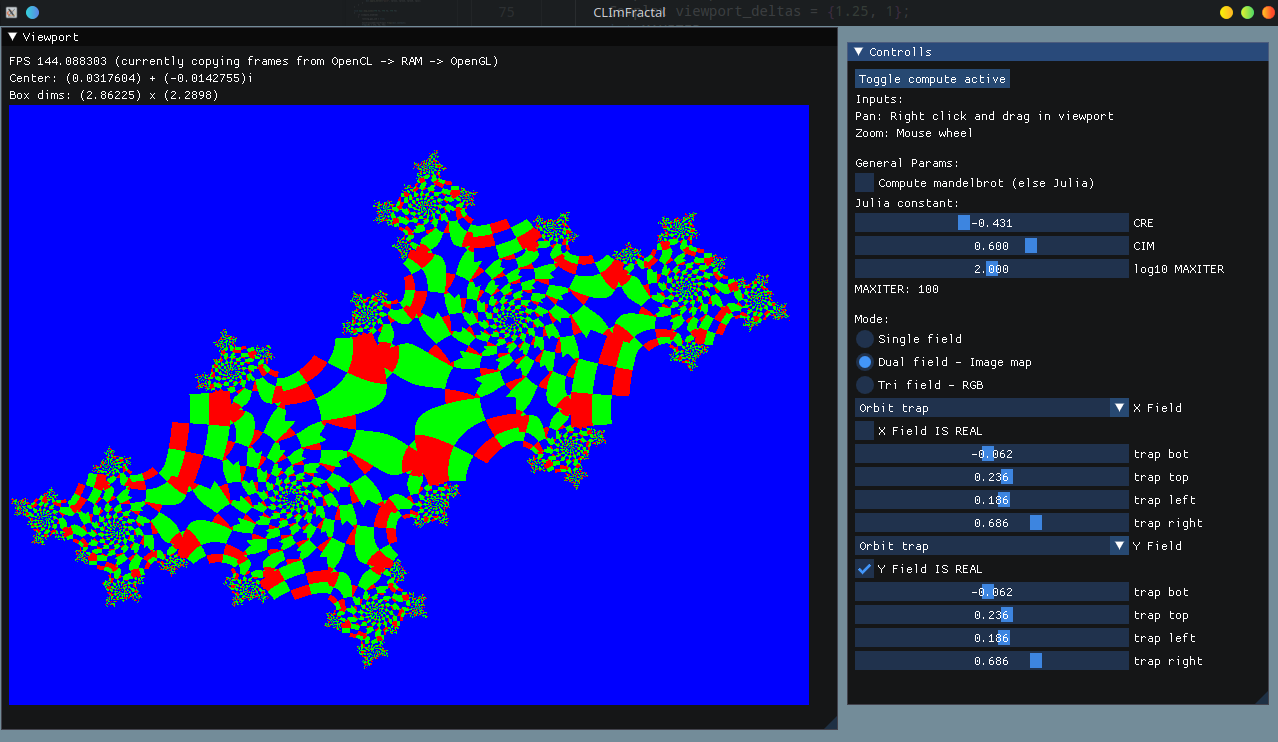
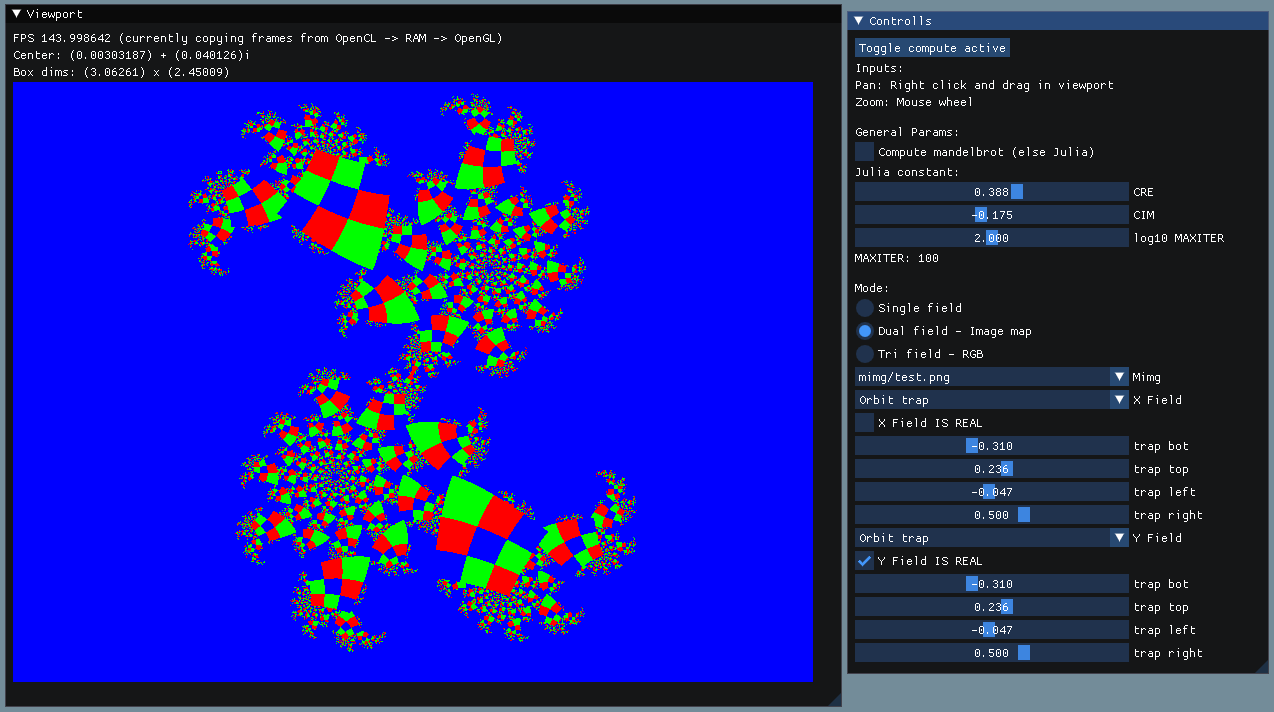
image selection

diff --git a/src/app.cpp b/src/app.cpp
@@ -1,5 +1,7 @@
-#include <filesystem>
 #include <cmath>
+#include <regex>
+#include <filesystem>
+namespace fs = std::filesystem;
 
 #include "app.h"
 #include "imgui.h"
@@ -21,7 +23,7 @@ App::App()
                                 "apply_log_int", "apply_log_fpn", 
                                 "pack", "pack_norm",
                                 "map_sines"};
-    string ocl_include_path = filesystem::current_path(); // include path required for cl file importing own deps
+    string ocl_include_path = fs::current_path(); // include path required for cl file importing own deps
     ecl.load_kernels(source_files, kernel_names, "-I "+ocl_include_path);
     ecl.no_block = true;
 
@@ -30,6 +32,20 @@ App::App()
     prox3 = new SynchronisedArray<double>(ecl.context, CL_MEM_WRITE_ONLY, {N, M});
     pix   = new SynchronisedArray<Pixel>(ecl.context, CL_MEM_WRITE_ONLY, {N, M});
     param = new SynchronisedArray<FParam>(ecl.context);
+
+    for (const auto & entry : fs::directory_iterator("mimg"))
+    {
+        string s = entry.path();
+        regex r(".*\\.(?:png|jpg)");
+        smatch m;
+        if (regex_search(s, m, r))
+        {
+            mimgs.push_back(s);
+            migs_opts += s;
+            migs_opts.push_back('\0');
+        }
+    }
+    migs_opts.push_back('\0');
 
 }
 
@@ -103,7 +119,7 @@ void App::map_sines(FPN f1, FPN f2, FPN f3)
     }
 }
 
-void App::map_img()
+void App::map_img(string img_file)
 {
     if (compute_enabled)
     {
@@ -112,7 +128,10 @@ void App::map_img()
         int w;
         int h;
         int comp;
-        unsigned char* image = stbi_load("test.png", &w, &h, &comp, STBI_rgb);
+        unsigned char* image = stbi_load(img_file.c_str(), &w, &h, &comp, STBI_rgb);
+
+        // if (comp!=3)                                                  // STBI_rgb should ensure this?
+        //     cout << "Warning: Expecting an RGB image (3 channels, got " << comp <<")\n"; // may well crash after this
 
         SynchronisedArray<Pixel> img(ecl.context, CL_MEM_READ_ONLY, {w,h});
         for(int i=0; i<w; i++)
@@ -266,12 +285,16 @@ void App::controlls_tab()
             }
             case ComputeMode::DualField:
             {
+                
+                static int file_idx = 0;
+                ImGui::Combo("Mimg", &file_idx, migs_opts.c_str());
+
                 static CompUIState stateX;
                 handle_field("X Field", prox1, &stateX);
                 static CompUIState stateY;
                 handle_field("Y Field", prox2, &stateY);
 
-                map_img();
+                map_img(mimgs[file_idx]);
                 break;
             }
             case ComputeMode::TriField:

diff --git a/src/app.h b/src/app.h
@@ -60,6 +60,8 @@ class App
         int N;
         int M;
         static string title;
+        vector<string> mimgs;
+        string migs_opts = "";
 
         Texture viewport;
         // unsigned char * pix;
@@ -89,7 +91,7 @@ class App
         void escape_iter(SynchronisedArray<double> *prox);
         void orbit_trap(SynchronisedArray<double> *prox, float bb, float bt, float bl, float br, bool real);
         void map_sines(FPN f1, FPN f2, FPN f3);
-        void map_img();
+        void map_img(string img_file);
         void fields_to_RGB(bool normalise);
         
         void compute_join();

diff --git a/README.md b/README.md
@@ -10,6 +10,13 @@ Currently frames are passed from OpenCL -> RAM -> OpenGL, but the idea would be 
 
 The files `mandel.cl`, `mandelstructs.h` and `mandelutils.c` should be kept with the binary, as the OpenCL kernels are compiled at runtime from these.
 
- ## Building
+## Building
 
 The `IMGUI_DIR` and `OPENCL_INCLUDE_PATH` should be updated in the `Makefile`, then simply run `make -j <Ncores>`.
+
+## Todo
+
+* Images seem to load flipped horizontally
+* Viewport resolution selection
+* Save/load fractal compute settings
+* Arbitrary precision?

diff --git a/mimg/README.md b/mimg/README.md
@@ -1,1 +1,1 @@
-Images to load when for the "dual field" visualisation.
+Images that can be loaded to sample for the "dual field" visualisation, where the two fields will be treated as UV coords.
